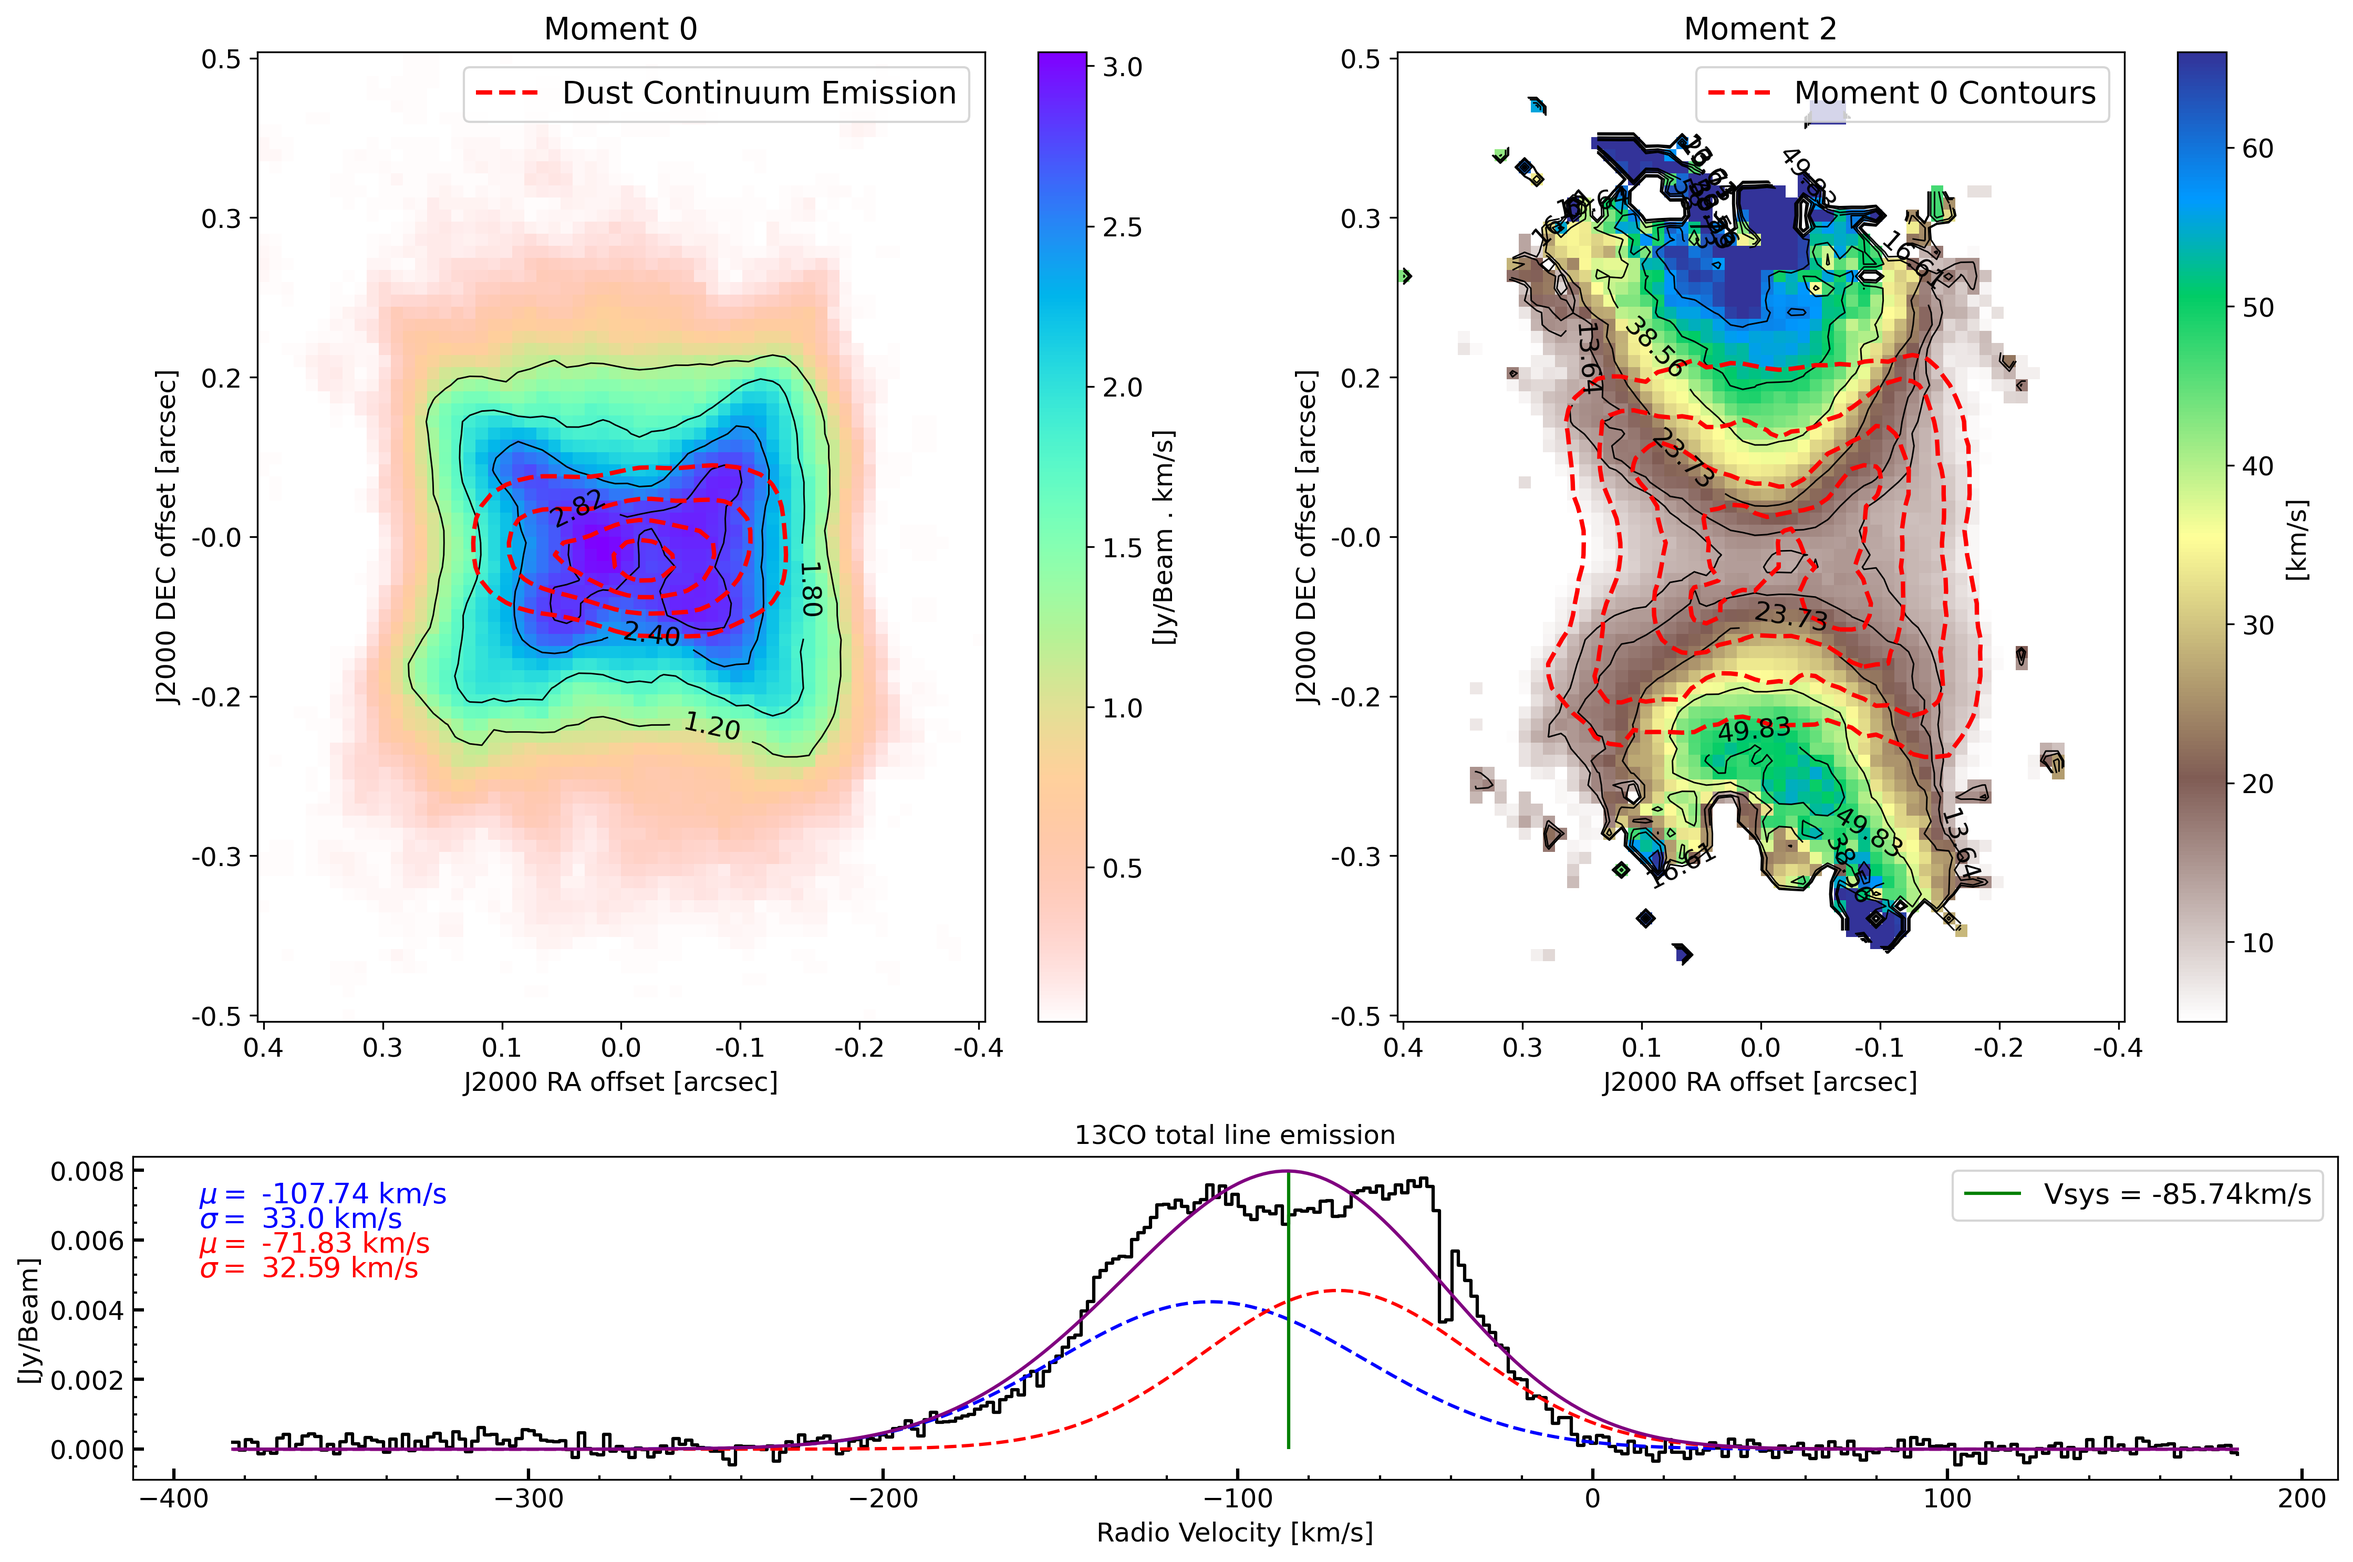
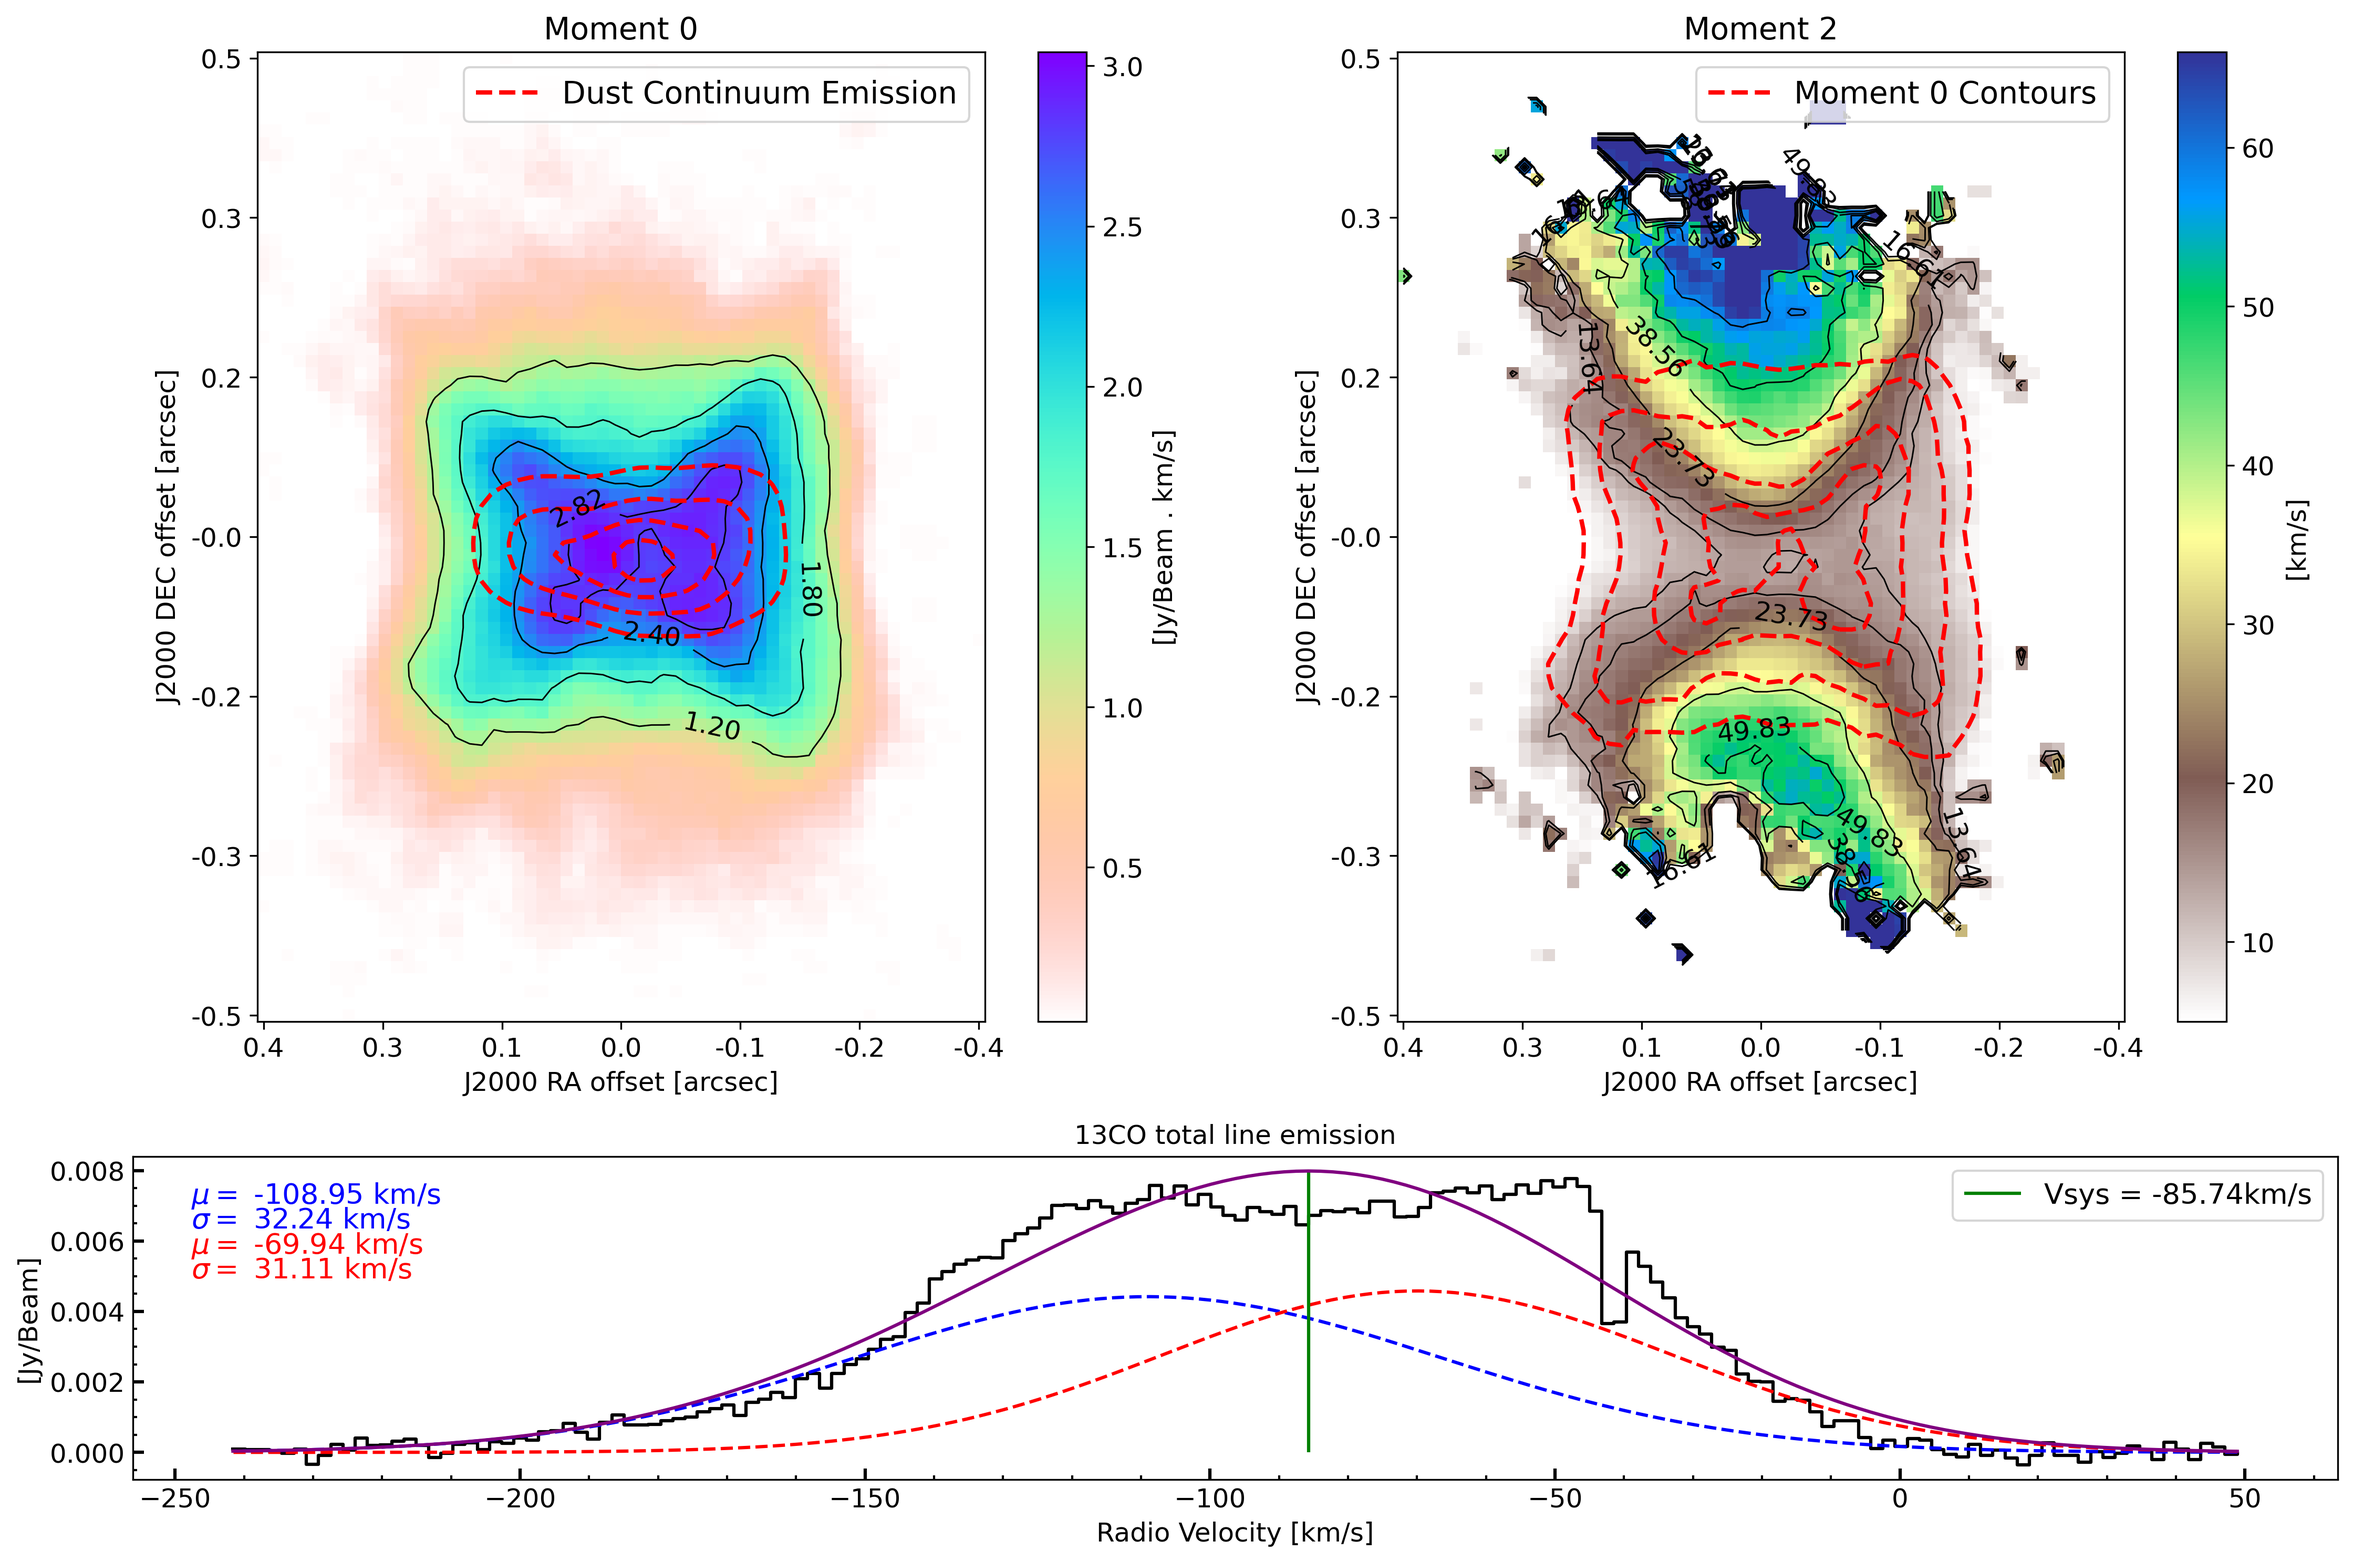
Mejora figuras, extracción regiones de outflow y espectros centrales

diff --git a/IRAS15445_recortados/Dash_visualizador/outflows.py b/IRAS15445_recortados/Dash_visualizador/outflows.py
@@ -16,6 +16,16 @@ from matplotlib.lines import Line2D
 line = '13CO'
 path = '/home/marcela/Tesis Marcela/IRAS15445_recortados/I15445.mstransform_cube_contsub_'+line+'.fits'
 
+def moment0(path):
+    cube_prueba = SpectralCube.read(path)
+    
+    cube_cut = cube_prueba[90:225,220:300,225:285]
+    cube_include = cube_cut.with_mask(cube_cut > 0.011*u.Jy/u.beam)  
+    #cube_include = cube_include.with_mask(cube_include < 0.03*u.Jy/u.beam)  
+    
+    m0 = cube_include.moment(order=0)/1000 
+   
+    return m0
 def moment2(path):
     cube_prueba = SpectralCube.read(path)
     
@@ -27,46 +37,92 @@ def moment2(path):
    
     return m2
 
+# Calcular momentos
+m0 = moment0(path)
 m2 = moment2(path)
 m2_escalar = m2.value*1.9
 
 box = [220,225,300,285]
+channel=[80,230]
 cube, Molines_A_df, coord = ctdf.Cube_to_df(path, box)
 
 # Pixeles para los cuales m2 es mayor o igual a 38.56
 pix = np.argwhere(m2_escalar >= 38.56)
+pix_center = np.argwhere(m2_escalar <= 38.56)
 
 columns1 = [f'Pix_{x}_{y}' for y, x in pix if y < 40]
 columns1 = [col for col in columns1 if col in Molines_A_df.columns]
-Molines_filtrado1 = Molines_A_df[columns1]
 
 columns2 = [f'Pix_{x}_{y}' for y, x in pix if y > 40]
 columns2 = [col for col in columns2 if col in Molines_A_df.columns]
 
+columns3 = [f'Pix_{x}_{y}' for y, x in pix_center]
+columns3 = [col for col in columns3 if col in Molines_A_df.columns]
+
+Molines_filtrado1 = Molines_A_df[columns1]
 Molines_filtrado2 = Molines_A_df[columns2]
+Molines_filtrado3 = Molines_A_df[columns3]
 
 Molines_A_df['mean1'] = Molines_filtrado1.sum(axis=1)/595
 Molines_A_df['mean2'] = Molines_filtrado2.sum(axis=1)/595
+Molines_A_df['mean3'] = Molines_filtrado3.sum(axis=1)/595
 
-pars1,result1,fig1 = Ajuste.gauss_model_outflows(Molines_A_df, cube, 'mean1', [80,230], plot=True)
+# Ajustes
+# ------------------------------------------------------------------------------------------------------------------
+pars1,result1,fig1 = Ajuste.gauss_model_outflows(Molines_A_df, cube, 'mean1', channel, plot=True)
 plt.title('Outflow Down',fontsize=14)
 
-pars2,result2,fig2 = Ajuste.gauss_model_outflows(Molines_A_df, cube, 'mean2', [80,230], plot=True)
+pars2,result2,fig2 = Ajuste.gauss_model_outflows(Molines_A_df, cube, 'mean2', channel, plot=True)
 plt.title('Outflow Up',fontsize=14)
 
-channel=[80,230]
+pars3,comps3,result3,fig3 = Ajuste.gauss_model(Molines_A_df, cube, 'mean3', channel, 0.01,plot=True)
+plt.title('Center',fontsize=14)
+# -----------------------------------------------------------------------------------------------------------------
 
+# Graficos
+#------------------------------------------------------------------------------------------------------------------
+# Regiones
+m2_up = np.zeros_like(m2_escalar)
+m2_down = np.zeros_like(m2_escalar)
+m2_c = np.zeros_like(m2_escalar)
+
+for x,y in pix:
+    if x>40:
+        m2_up[x, y] = m2_escalar[x, y]
+    else:
+        m2_down[x, y] = m2_escalar[x, y]
+
+for x, y in pix_center:
+    m2_c[x, y] = m2_escalar[x, y]
+
+plt.figure(figsize=(15,7))
+
+plt.subplot(1,3,1)
+plt.title('Upper outflow',fontsize=14)
+plt.imshow(m2_up, origin='lower', vmin=5, vmax=66, cmap='terrain_r')
+plt.subplot(1,3,2)
+plt.title('Bottom outflow',fontsize=14)
+plt.imshow(m2_down, origin='lower', vmin=5, vmax=66, cmap='terrain_r')
+plt.subplot(1,3,3)
+plt.title('Center',fontsize=14)
+plt.imshow(m2_c, origin='lower', vmin=5, vmax=66, cmap='terrain_r')
+
+#------------------------------------------------------------------------------------------------------------------
+# Espectros
 x_datos1 = Molines_A_df['mean1'].index[channel[0]:channel[1]]
 y_datos1 = Molines_A_df['mean1'].iloc[channel[0]:channel[1]]
 
 x_datos2 = Molines_A_df['mean2'].index[channel[0]:channel[1]]
 y_datos2 = Molines_A_df['mean2'].iloc[channel[0]:channel[1]]
 
+x_datos3 = Molines_A_df['mean3'].index[channel[0]:channel[1]]
+y_datos3 = Molines_A_df['mean3'].iloc[channel[0]:channel[1]]
 
 plt.figure(figsize=(15,5))
 
 plt.step(Molines_A_df['mean1'].index[channel[0]:channel[1]],Molines_A_df['mean1'].iloc[channel[0]:channel[1]],color='orangered')
 plt.step(Molines_A_df['mean2'].index[channel[0]:channel[1]],Molines_A_df['mean2'].iloc[channel[0]:channel[1]],color='royalblue')
+plt.step(Molines_A_df['mean3'].index[channel[0]:channel[1]],Molines_A_df['mean3'].iloc[channel[0]:channel[1]],color='purple')
 
 plt.title(line,fontsize=15)
 plt.xlabel('Radio Velocity [km/s]',fontsize=13)
@@ -79,18 +135,25 @@ plt.tick_params(axis='both', direction='in', length=5, width=1.5)
 plt.minorticks_on()
 plt.tick_params(axis='both', which='minor', direction='in', length=2, width=1)
 
-# Ajuste 
+# Ajuste 1
 plt.plot(x_datos1, result1.best_fit, '-', color='black')
-plt.text(min(x_datos1)+min(x_datos1)/40,max(y_datos1)-max(y_datos1)/11,r'    Down Outflow',color='orangered',fontsize=13)
-plt.text(min(x_datos1)+min(x_datos1)/40,max(y_datos1)-2*max(y_datos1)/11,r'$\mu =$ '+str(round(pars1['cen'].value,2))+' km/s',color='orangered',fontsize=13)
-plt.text(min(x_datos1)+min(x_datos1)/40,max(y_datos1)-3*max(y_datos1)/11,r'$\sigma =$ '+str(round(pars1['wid'].value,2))+' km/s',color='orangered',fontsize=13)
+plt.text(min(x_datos3)+min(x_datos3)/40,max(y_datos3)-max(y_datos3)/11,r'    Down Outflow',color='orangered',fontsize=13)
+plt.text(min(x_datos3)+min(x_datos3)/40,max(y_datos3)-2*max(y_datos3)/11,r'$\mu =$ '+str(round(pars1['cen'].value,2))+' km/s',color='orangered',fontsize=13)
+plt.text(min(x_datos3)+min(x_datos3)/40,max(y_datos3)-3*max(y_datos3)/11,r'$\sigma =$ '+str(round(pars1['wid'].value,2))+' km/s',color='orangered',fontsize=13)
 
 
-# Ajuste 
+# Ajuste 2
 plt.plot(x_datos2, result2.best_fit, '-', color='black')
-plt.text(max(x_datos1)-max(x_datos1),max(y_datos1)-max(y_datos1)/11,r'       Up Outflow',color='royalblue',fontsize=13)
-plt.text(max(x_datos1)-max(x_datos1),max(y_datos1)-2*max(y_datos1)/11,r'$\mu =$ '+str(round(pars2['cen'].value,2))+' km/s',color='royalblue',fontsize=13)
-plt.text(max(x_datos1)-max(x_datos1),max(y_datos1)-3*max(y_datos1)/11,r'$\sigma =$ '+str(round(pars2['wid'].value,2))+' km/s',color='royalblue',fontsize=13)
+plt.text(max(x_datos3)-max(x_datos3),max(y_datos3)-max(y_datos3)/11,r'       Up Outflow',color='royalblue',fontsize=13)
+plt.text(max(x_datos3)-max(x_datos3),max(y_datos3)-2*max(y_datos3)/11,r'$\mu =$ '+str(round(pars2['cen'].value,2))+' km/s',color='royalblue',fontsize=13)
+plt.text(max(x_datos3)-max(x_datos3),max(y_datos3)-3*max(y_datos3)/11,r'$\sigma =$ '+str(round(pars2['wid'].value,2))+' km/s',color='royalblue',fontsize=13)
+
+
+# Ajuste 3
+plt.plot(x_datos3, result3.best_fit, '-', color='black')
+#plt.text(max(x_datos3)-max(x_datos3),max(y_datos3)-max(y_datos3)/11,r'       Center',color='royalblue',fontsize=13)
+#plt.text(max(x_datos3)-max(x_datos3),max(y_datos3)-2*max(y_datos3)/11,r'$\mu =$ '+str(round(pars3['cen'].value,2))+' km/s',color='royalblue',fontsize=13)
+#plt.text(max(x_datos3)-max(x_datos3),max(y_datos3)-3*max(y_datos3)/11,r'$\sigma =$ '+str(round(pars3['wid'].value,2))+' km/s',color='royalblue',fontsize=13)
 
 
 

diff --git a/IRAS15445_recortados/Dash_visualizador/FiguraSO2_4_3.py b/IRAS15445_recortados/Dash_visualizador/FiguraSO2_4_3.py
@@ -45,10 +45,11 @@ continuum = SpectralCube.read(path_cont)
 continuum  = continuum[:,230:290,225:280]
 
 box = [230,225,290,280]
+channel = [90,240]
 cube, Molines_A_df, coord = ctdf.Cube_to_df(path, box)
 Molines_A_df['mean'] = Molines_A_df.sum(axis=1)/4800
 
-pars,comps, out,matplotlib_fig = Ajuste.gauss_model(Molines_A_df, cube, 'mean', [30,320], 0.1, plot=True)
+pars,comps, out,matplotlib_fig = Ajuste.gauss_model(Molines_A_df, cube, 'mean',channel, 0.1, plot=True)
 
 #for i in range(len(cube_include)):
 #    plt.figure()
@@ -150,13 +151,13 @@ ax2.legend(handles=[dust_contour_legend], fontsize=14)
 
 # Tercer gráfico (gráfico adicional cubriendo toda la segunda fila)
 ax3 = plt.subplot(gs[1, :])  # Un solo gráfico que cubre ambas columnas en la segunda fila
-ax3.step(Molines_A_df.sum(axis=1).index[30:320],Molines_A_df.sum(axis=1).iloc[30:320]/4800,color='black')
+ax3.step(Molines_A_df.sum(axis=1).index[channel[0]:channel[1]],Molines_A_df.sum(axis=1).iloc[channel[0]:channel[1]]/4800,color='black')
 ax3.set_title('SO2_4_3 total line emission', fontsize=12)
 ax3.set_xlabel('Radio Velocity [km/s]',fontsize=12)
 ax3.set_ylabel('[Jy/Beam]',fontsize=12)
 
-x = Molines_A_df['mean'].index[30:320]
-y = Molines_A_df['mean'].iloc[30:320]
+x = Molines_A_df['mean'].index[channel[0]:channel[1]]
+y = Molines_A_df['mean'].iloc[channel[0]:channel[1]]
 
 for i in range(2):
     if i == 0:

diff --git a/IRAS15445_recortados/Dash_visualizador/Figura13CO.py b/IRAS15445_recortados/Dash_visualizador/Figura13CO.py
@@ -44,10 +44,11 @@ continuum = SpectralCube.read(path_cont)
 continuum  = continuum[:,220:300,225:285]
 
 box = [220,225,300,285]
+channel=[75,240]
 cube, Molines_A_df, coord = ctdf.Cube_to_df(path, box)
 Molines_A_df['mean'] = Molines_A_df.sum(axis=1)/4800
 
-pars,comps, out,matplotlib_fig = Ajuste.gauss_model(Molines_A_df, cube, 'mean', [0,320], 0.1, plot=True)
+pars,comps, out,matplotlib_fig = Ajuste.gauss_model(Molines_A_df, cube, 'mean', channel, 0.1, plot=True)
 
 #for i in range(len(cube_include)):
 #    plt.figure()
@@ -149,13 +150,13 @@ ax2.legend(handles=[dust_contour_legend], fontsize=14)
 
 # Tercer gráfico (gráfico adicional cubriendo toda la segunda fila)
 ax3 = plt.subplot(gs[1, :])  # Un solo gráfico que cubre ambas columnas en la segunda fila
-ax3.step(Molines_A_df.sum(axis=1).index,Molines_A_df.sum(axis=1)/4800,color='black')
+ax3.step(Molines_A_df.sum(axis=1).index[channel[0]:channel[1]],Molines_A_df.sum(axis=1).iloc[channel[0]:channel[1]]/4800,color='black')
 ax3.set_title('13CO total line emission', fontsize=12)
 ax3.set_xlabel('Radio Velocity [km/s]',fontsize=12)
 ax3.set_ylabel('[Jy/Beam]',fontsize=12)
 
-x = Molines_A_df['mean'].index
-y = Molines_A_df['mean'].iloc
+x = Molines_A_df['mean'].index[channel[0]:channel[1]]
+y = Molines_A_df['mean'].iloc[channel[0]:channel[1]]
 
 for i in range(2):
     if i == 0:

diff --git a/IRAS15445_recortados/Dash_visualizador/Ajuste_Figuras.py b/IRAS15445_recortados/Dash_visualizador/Ajuste_Figuras.py
@@ -89,7 +89,7 @@ def gauss_model(Molines_A_df,cube,px,channel,ruido,plot=False):
         pars=model.make_params()
         
         # Llenar los parámetros iniciales
-        for i,ff in zip(range(npeaks),[modell.summary()['params'],modelr.summary()['params'],]):
+        for i,ff in zip(range(npeaks),[modell.summary()['params'],modelr.summary()['params']]):
           pars['peak%d_center' % (i+1)].set(value=ff[1][1],vary=False) # fix nu_ul
           pars['peak%d_sigma' % (i+1)].set(value=ff[2][1],min=10,max=50)
           pars['peak%d_amplitude' % (i+1)].set(value=ff[0][1],min=0,max=4)
